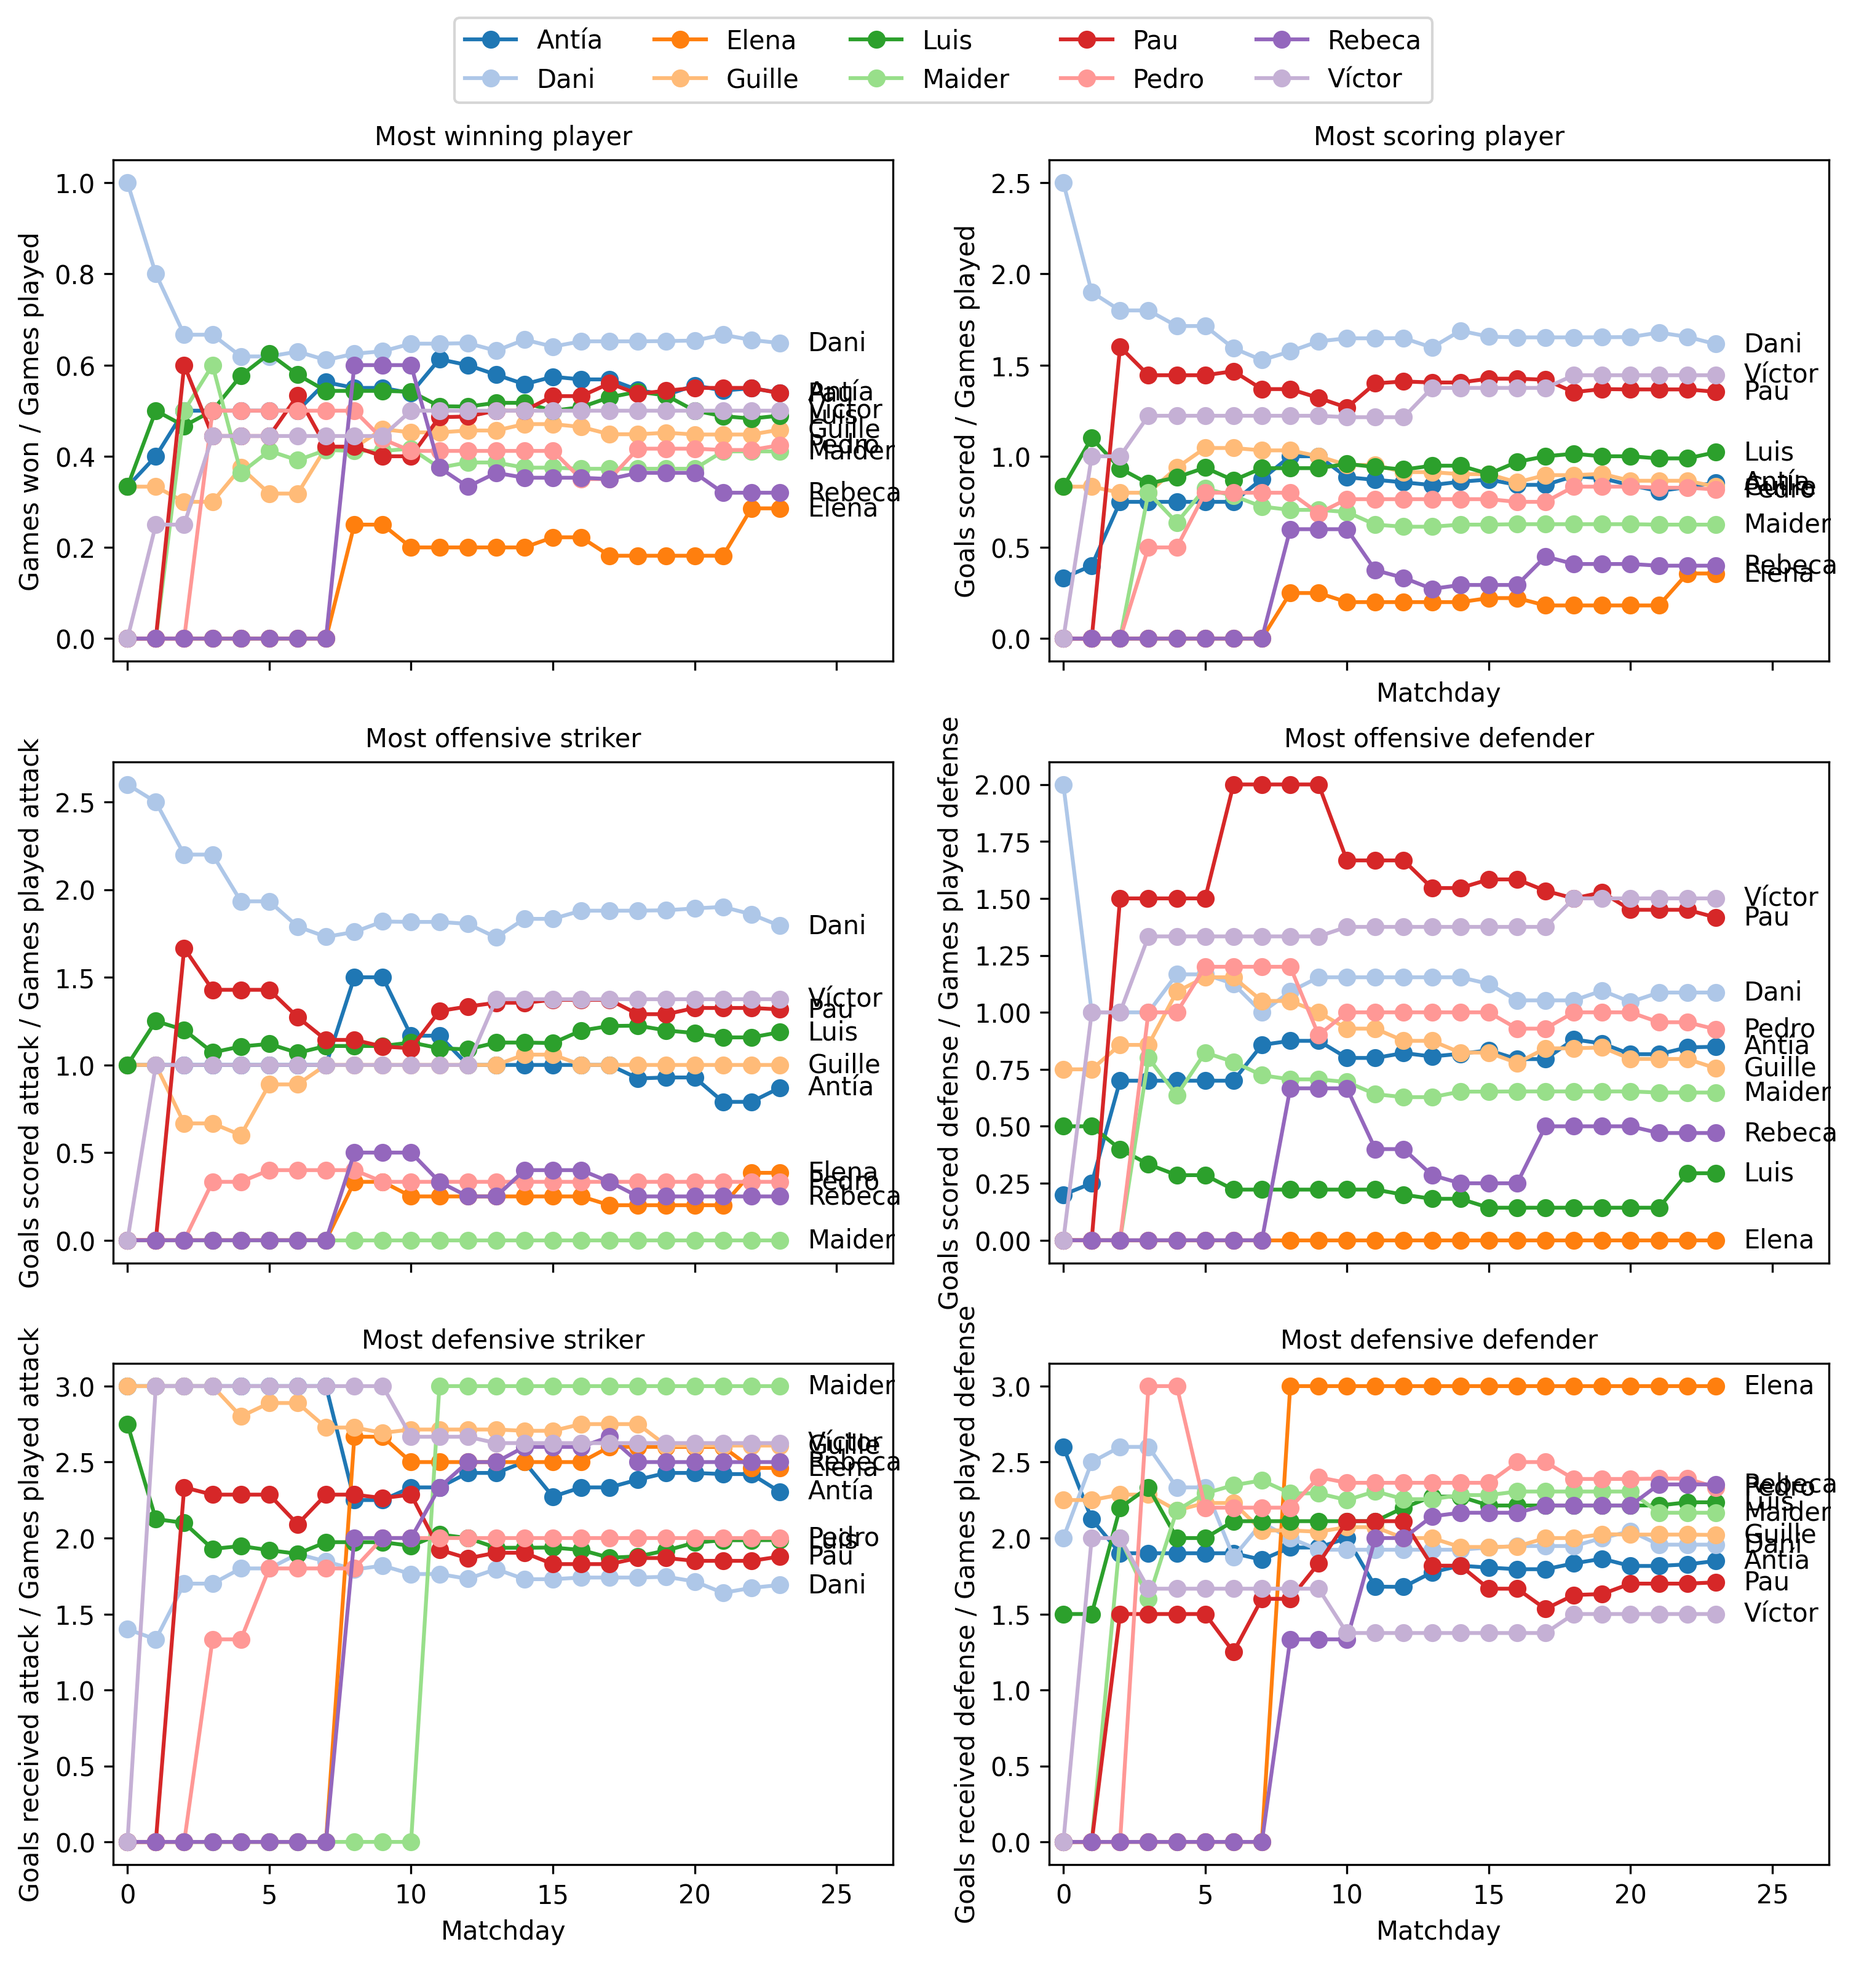
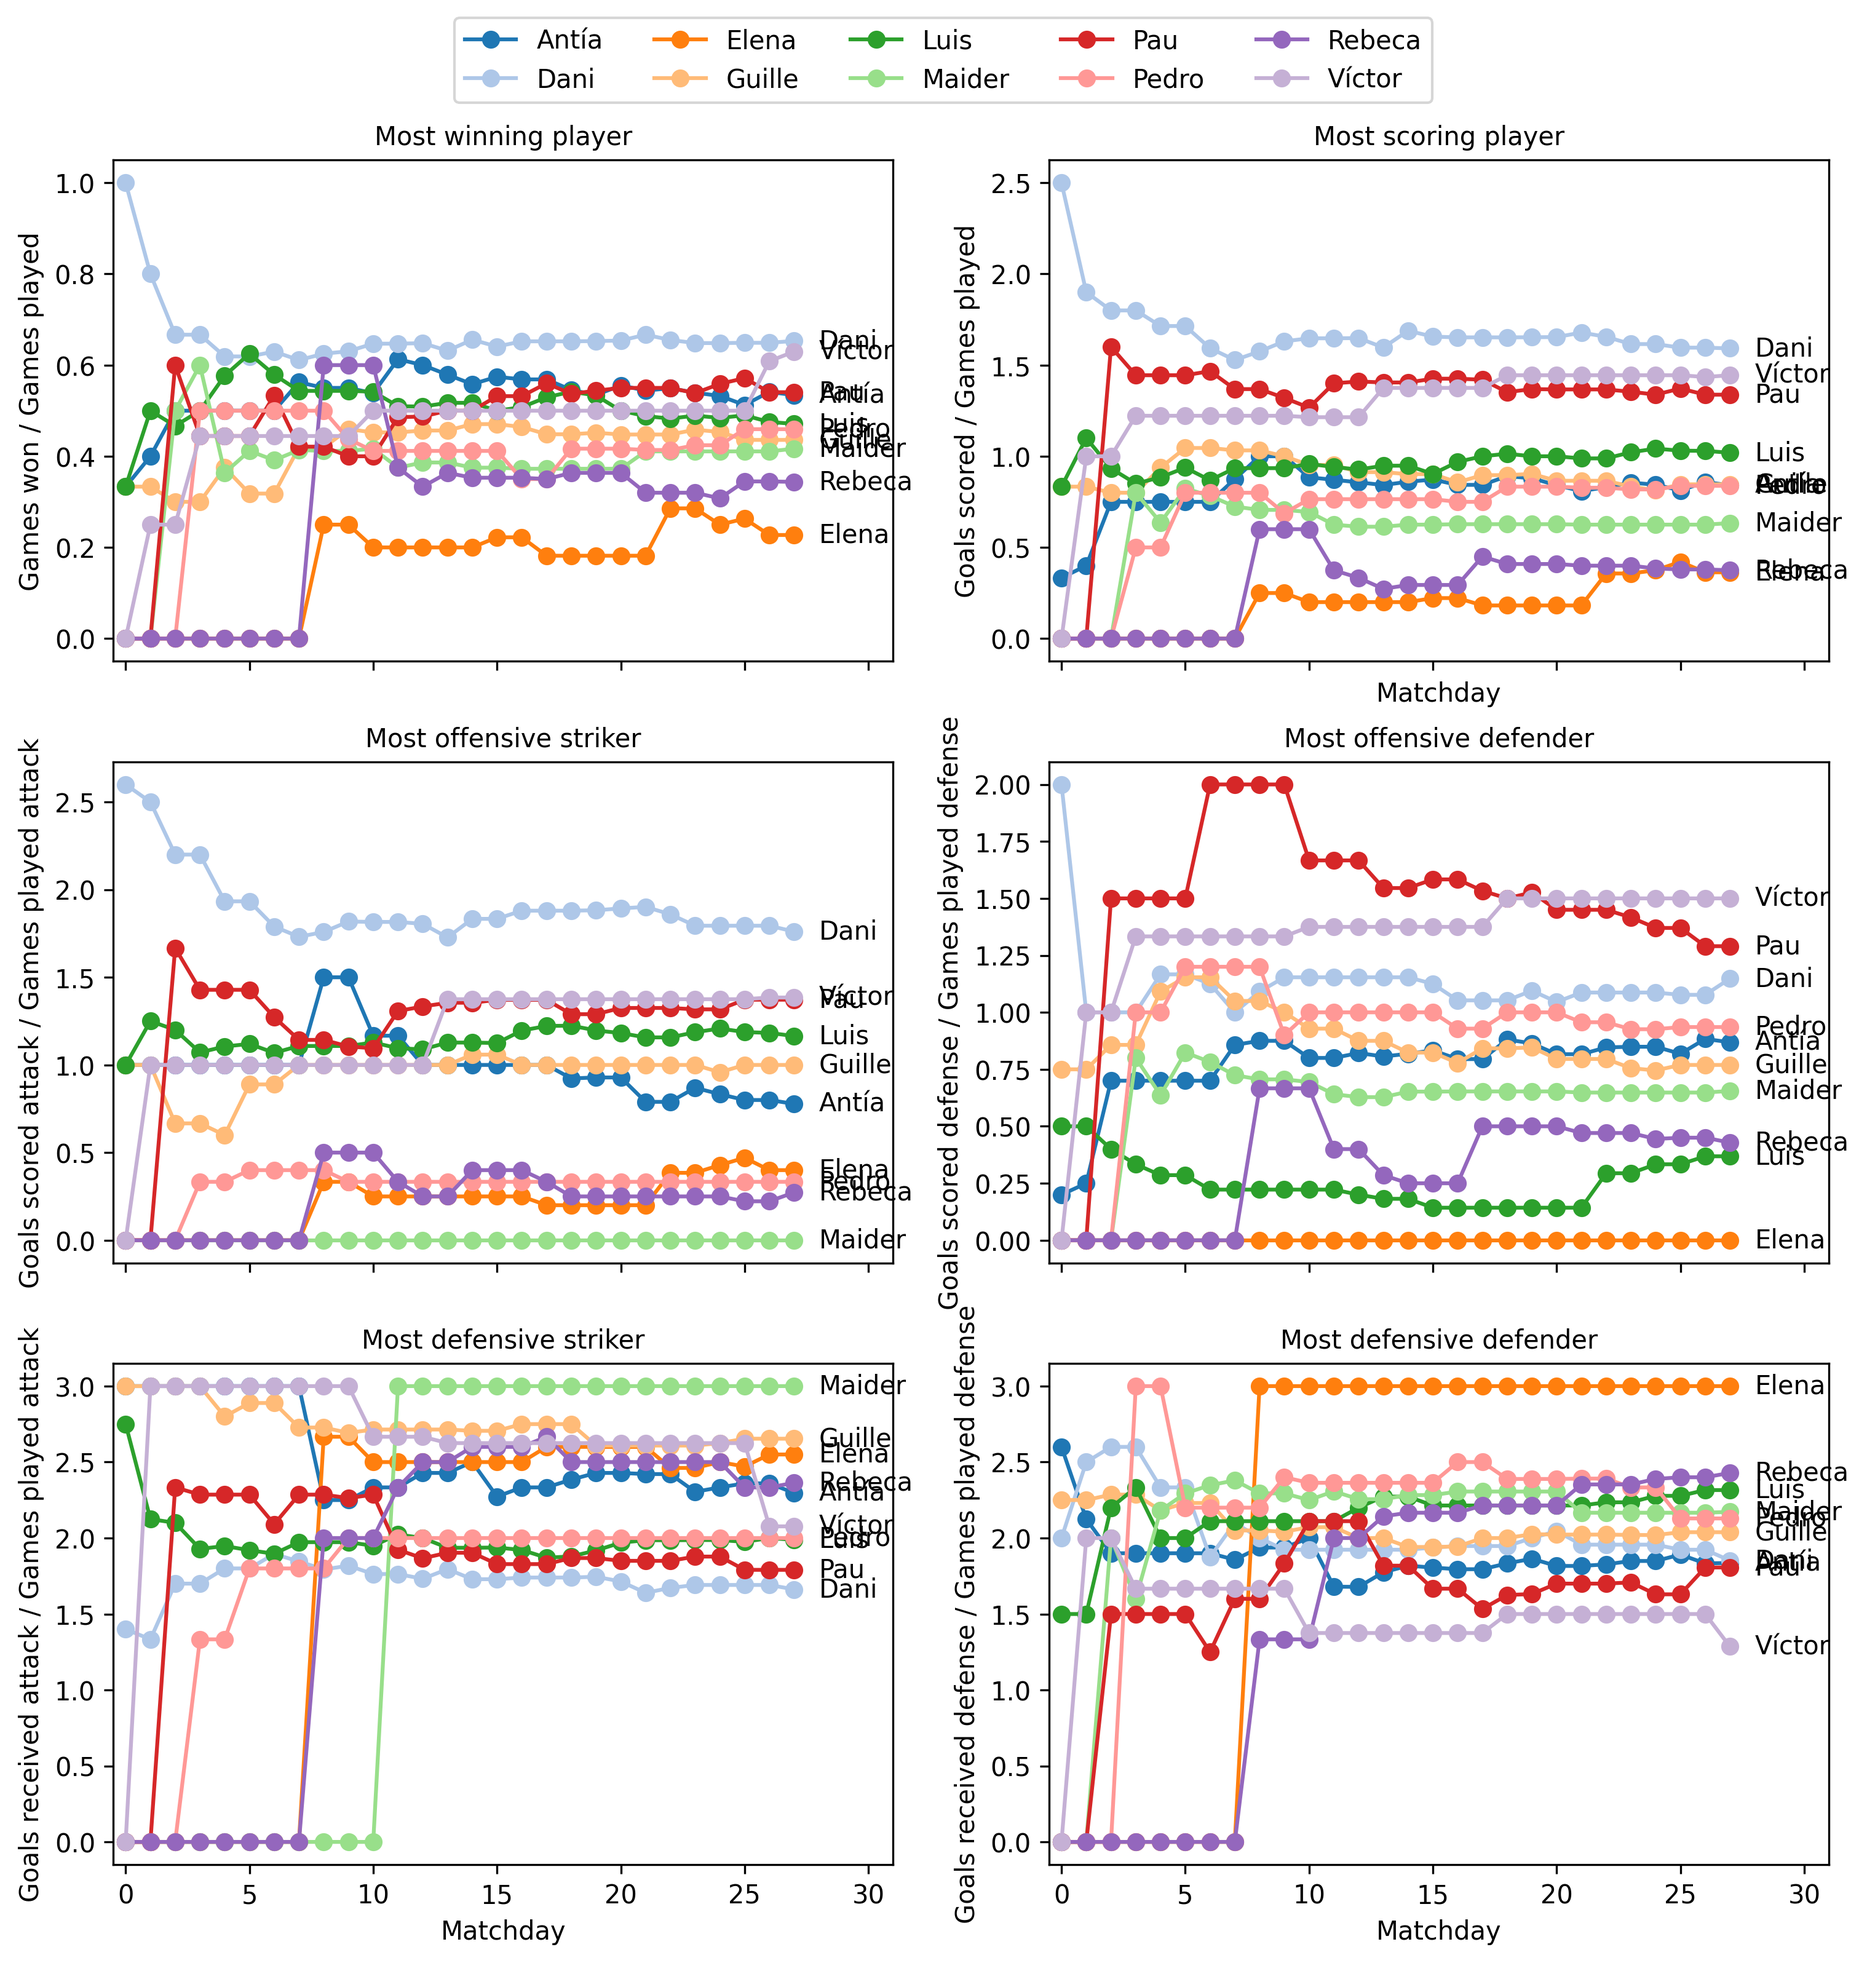
Updated to Matchday 28

diff --git a/results/winplayed_stats.html b/results/winplayed_stats.html
@@ -1,64 +1,64 @@
 <style type="text/css">
 </style>
-<table id="T_9071c">
-  <caption>Games won / Games played (Matchday 23)</caption>
+<table id="T_d8be3">
+  <caption>Games won / Games played (Matchday 27)</caption>
   <thead>
     <tr>
       <th class="blank level0" >&nbsp;</th>
-      <th id="T_9071c_level0_col0" class="col_heading level0 col0" >0</th>
-      <th id="T_9071c_level0_col1" class="col_heading level0 col1" >1</th>
+      <th id="T_d8be3_level0_col0" class="col_heading level0 col0" >0</th>
+      <th id="T_d8be3_level0_col1" class="col_heading level0 col1" >1</th>
     </tr>
   </thead>
   <tbody>
     <tr>
-      <th id="T_9071c_level0_row0" class="row_heading level0 row0" >1</th>
-      <td id="T_9071c_row0_col0" class="data row0 col0" >Dani</td>
-      <td id="T_9071c_row0_col1" class="data row0 col1" >0.65</td>
+      <th id="T_d8be3_level0_row0" class="row_heading level0 row0" >1</th>
+      <td id="T_d8be3_row0_col0" class="data row0 col0" >Dani</td>
+      <td id="T_d8be3_row0_col1" class="data row0 col1" >0.65</td>
     </tr>
     <tr>
-      <th id="T_9071c_level0_row1" class="row_heading level0 row1" >2</th>
-      <td id="T_9071c_row1_col0" class="data row1 col0" >Antía</td>
-      <td id="T_9071c_row1_col1" class="data row1 col1" >0.54</td>
+      <th id="T_d8be3_level0_row1" class="row_heading level0 row1" >2</th>
+      <td id="T_d8be3_row1_col0" class="data row1 col0" >Víctor</td>
+      <td id="T_d8be3_row1_col1" class="data row1 col1" >0.63</td>
     </tr>
     <tr>
-      <th id="T_9071c_level0_row2" class="row_heading level0 row2" >3</th>
-      <td id="T_9071c_row2_col0" class="data row2 col0" >Pau</td>
-      <td id="T_9071c_row2_col1" class="data row2 col1" >0.54</td>
+      <th id="T_d8be3_level0_row2" class="row_heading level0 row2" >3</th>
+      <td id="T_d8be3_row2_col0" class="data row2 col0" >Pau</td>
+      <td id="T_d8be3_row2_col1" class="data row2 col1" >0.54</td>
     </tr>
     <tr>
-      <th id="T_9071c_level0_row3" class="row_heading level0 row3" >4</th>
-      <td id="T_9071c_row3_col0" class="data row3 col0" >Víctor</td>
-      <td id="T_9071c_row3_col1" class="data row3 col1" >0.5</td>
+      <th id="T_d8be3_level0_row3" class="row_heading level0 row3" >4</th>
+      <td id="T_d8be3_row3_col0" class="data row3 col0" >Antía</td>
+      <td id="T_d8be3_row3_col1" class="data row3 col1" >0.53</td>
     </tr>
     <tr>
-      <th id="T_9071c_level0_row4" class="row_heading level0 row4" >5</th>
-      <td id="T_9071c_row4_col0" class="data row4 col0" >Luis</td>
-      <td id="T_9071c_row4_col1" class="data row4 col1" >0.49</td>
+      <th id="T_d8be3_level0_row4" class="row_heading level0 row4" >5</th>
+      <td id="T_d8be3_row4_col0" class="data row4 col0" >Luis</td>
+      <td id="T_d8be3_row4_col1" class="data row4 col1" >0.47</td>
     </tr>
     <tr>
-      <th id="T_9071c_level0_row5" class="row_heading level0 row5" >6</th>
-      <td id="T_9071c_row5_col0" class="data row5 col0" >Guille</td>
-      <td id="T_9071c_row5_col1" class="data row5 col1" >0.46</td>
+      <th id="T_d8be3_level0_row5" class="row_heading level0 row5" >6</th>
+      <td id="T_d8be3_row5_col0" class="data row5 col0" >Pedro</td>
+      <td id="T_d8be3_row5_col1" class="data row5 col1" >0.46</td>
     </tr>
     <tr>
-      <th id="T_9071c_level0_row6" class="row_heading level0 row6" >7</th>
-      <td id="T_9071c_row6_col0" class="data row6 col0" >Pedro</td>
-      <td id="T_9071c_row6_col1" class="data row6 col1" >0.42</td>
+      <th id="T_d8be3_level0_row6" class="row_heading level0 row6" >7</th>
+      <td id="T_d8be3_row6_col0" class="data row6 col0" >Guille</td>
+      <td id="T_d8be3_row6_col1" class="data row6 col1" >0.44</td>
     </tr>
     <tr>
-      <th id="T_9071c_level0_row7" class="row_heading level0 row7" >8</th>
-      <td id="T_9071c_row7_col0" class="data row7 col0" >Maider</td>
-      <td id="T_9071c_row7_col1" class="data row7 col1" >0.41</td>
+      <th id="T_d8be3_level0_row7" class="row_heading level0 row7" >8</th>
+      <td id="T_d8be3_row7_col0" class="data row7 col0" >Maider</td>
+      <td id="T_d8be3_row7_col1" class="data row7 col1" >0.42</td>
     </tr>
     <tr>
-      <th id="T_9071c_level0_row8" class="row_heading level0 row8" >9</th>
-      <td id="T_9071c_row8_col0" class="data row8 col0" >Rebeca</td>
-      <td id="T_9071c_row8_col1" class="data row8 col1" >0.32</td>
+      <th id="T_d8be3_level0_row8" class="row_heading level0 row8" >9</th>
+      <td id="T_d8be3_row8_col0" class="data row8 col0" >Rebeca</td>
+      <td id="T_d8be3_row8_col1" class="data row8 col1" >0.34</td>
     </tr>
     <tr>
-      <th id="T_9071c_level0_row9" class="row_heading level0 row9" >10</th>
-      <td id="T_9071c_row9_col0" class="data row9 col0" >Elena</td>
-      <td id="T_9071c_row9_col1" class="data row9 col1" >0.29</td>
+      <th id="T_d8be3_level0_row9" class="row_heading level0 row9" >10</th>
+      <td id="T_d8be3_row9_col0" class="data row9 col0" >Elena</td>
+      <td id="T_d8be3_row9_col1" class="data row9 col1" >0.23</td>
     </tr>
   </tbody>
 </table>
